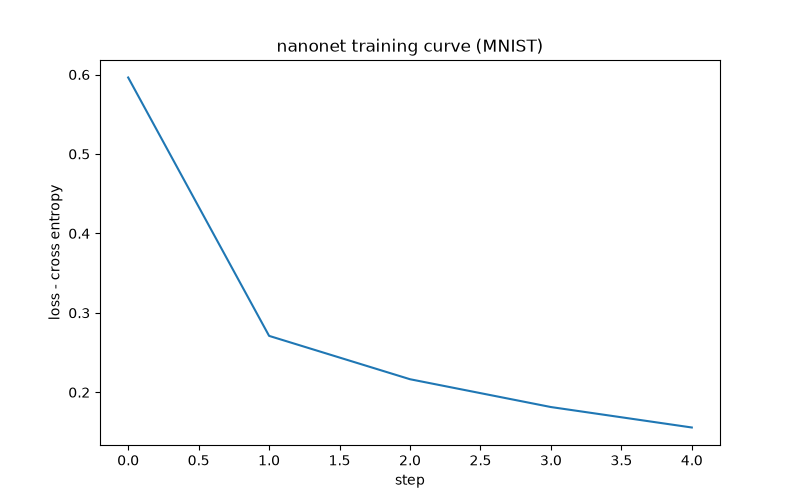
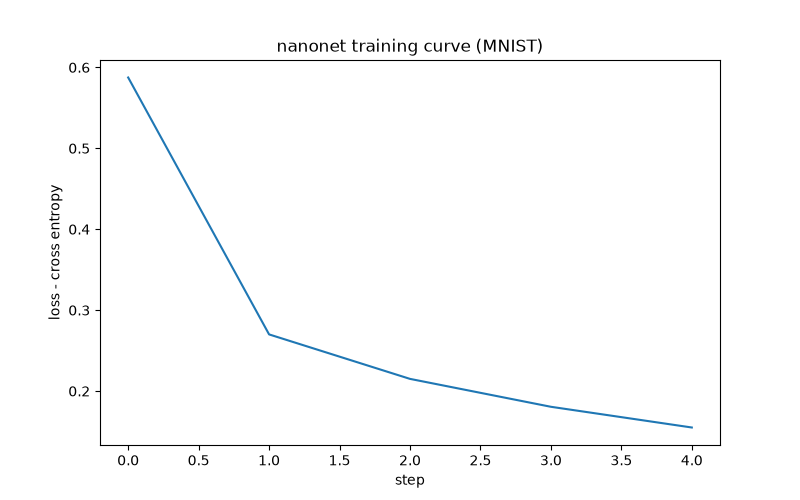
update README

diff --git a/examples/mnist.py b/examples/mnist.py
@@ -1,8 +1,11 @@
-from nanonet import ManualMLP as MLP
+import sys
+from nanonet import MLP
+from pathlib import Path
 import matplotlib.pyplot as plt
 from sklearn.datasets import fetch_openml
 from sklearn.model_selection import train_test_split
 
+sys.path.insert(0, str(Path(__file__).resolve().parents[1]))
 
 def main():
     X, y = fetch_openml(
@@ -26,7 +29,7 @@ def main():
               | true: {y_test[i]} 
               | {'ok' if predictions[i] == y_test[i] else 'x'}""")
     
-    acc = (model.predict(X_test[:2000]) == y_test[:2000]).mean()
+    acc = (model.predict(X_test) == y_test).mean()
     print(f"\nTest accuracy: {acc*100:.1f}%")
     plot_loss_curve(model.loss_history)
 

diff --git a/nanonet/model.py b/nanonet/model.py
@@ -56,7 +56,7 @@ class MLP:
             if verbose:
                 interval = max(1, epochs // 5)
                 if epoch % interval == 0 or epochs ==  epochs - 1:
-                    print(f"epoch {epoch+1}/{epochs}, loss: {loss:.3f}")
+                    print(f"epoch {epoch + 1}/{epochs}, loss: {avg:.3f}")
                     
         return self.loss_history
                     

diff --git a/nanonet/manual.py b/nanonet/manual.py
@@ -85,7 +85,7 @@ class MLP:
             if verbose:
                 interval = max(1, epochs // 5)
                 if epoch % interval == 0 or epochs ==  epochs - 1:
-                    print(f"epoch {epoch+1}/{epochs}, loss: {loss:.3f}")
+                    print(f"epoch {epoch + 1}/{epochs}, loss: {loss:.3f}")
                 
         
     def predict(self, X):

diff --git a/examples/bag_of_words.py b/examples/bag_of_words.py
@@ -1,6 +1,10 @@
+import sys
 import numpy as np
-from nanonet import MLP
 import matplotlib.pyplot as plt
+from nanonet import  MLP
+from pathlib import Path
+
+sys.path.insert(0, str(Path(__file__).resolve().parents[1]))
 
 # tiny dataset: same model, text in -> label out
 texts = [

diff --git a/README.md b/README.md
@@ -1,16 +1,166 @@
-## NanoNet
+# NanoNet
 
-A tiny neural net built entirely in Numpy.
-No PyTorch, no Tensorflow, only raw code and math for learning
+**A neural network framework built from scratch using NumPy.**
 
+NanoNet is an educational project exploring the mathematics and mechanics behind neural networks. Rather than relying on PyTorch or TensorFlow for its core implementation, NanoNet builds essential components from the ground up, including automatic differentiation, backpropagation, multilayer perceptrons, and the Adam optimizer.
 
-# What's Inside
-- MLP(784, 128, 10) from scratch 
-- Gets ~96% on MNIST
-- Built to learn how a neural net actually works at its core: autograd engine, forward, backprop, gradient descent, Adam, softmax, cross-entropy; all in Numpy 
+The goal is to understand how neural networks work internally, from tensor operations and gradient computation to parameter updates and model training.
 
-# Struture
-- `nanonet/autograd.py`: Tensor engine with autograd
-- `nanonet/model.py`: MLP + Adam, training uses cross-entropy loss
-- `nanonet/optim.py`: Adam optimizer
-- `nanonet/manual.py`: first version with manual backprop
+## Features
+
+* **Automatic differentiation:** A custom Tensor engine that builds a computational graph and propagates gradients through operations.
+* **Multilayer perceptron:** A fully connected neural network implemented using NumPy.
+* **Manual backpropagation:** An alternative MLP implementation with explicitly calculated gradients.
+* **Adam optimizer:** An implementation of adaptive gradient-based optimization.
+* **Core tensor operations:** Matrix multiplication, element-wise multiplication, broadcasting, summation, sigmoid, and softmax.
+* **Classification:** Cross-entropy loss and prediction for multiclass classification.
+* **Numerical gradient checking:** Finite-difference checks to validate analytical gradients.
+* **Automated testing:** Unit tests and continuous integration through GitHub Actions.
+
+## Architecture
+
+```text
+Input Data
+    |
+    v
+Tensor Operations
+    |
+    v
+Forward Pass
+    |
+    v
+Loss Calculation
+    |
+    v
+Automatic Differentiation
+    |
+    v
+Gradient Computation
+    |
+    v
+Adam Optimizer
+    |
+    v
+Parameter Updates
+```
+
+## Project Structure
+
+```text
+nanonet/
+├── nanonet/
+│   ├── autograd.py
+│   ├── model.py
+│   ├── optim.py
+│   └── manual.py
+├── examples/
+│   ├── mnist.py
+│   └── bag_of_words.py
+├── tests/
+├── .github/
+│   └── workflows/
+├── requirements.txt
+└── README.md
+```
+
+## Core Components
+
+| Component                  | Description                                                                           |
+| -------------------------- | ------------------------------------------------------------------------------------- |
+| `nanonet/autograd.py`      | Tensor operations, computational graph construction, and automatic differentiation    |
+| `nanonet/model.py`         | MLP, forward propagation, training, prediction, and cross-entropy loss                |
+| `nanonet/optim.py`         | Adam optimizer and optimization utilities                                             |
+| `nanonet/manual.py`        | MLP implementation using manually calculated backpropagation                          |
+| `examples/mnist.py`        | MNIST training and evaluation example                                                 |
+| `examples/bag_of_words.py` | Bag-of-words sentiment classification demonstration                                   |
+| `tests/`                   | Automated tests for tensor operations, gradients, optimization, and learning behavior |
+
+## Getting Started
+
+### Requirements
+
+* Python 3
+* NumPy
+* scikit-learn
+* Matplotlib
+* pandas
+
+Install the dependencies from the repository root:
+
+```bash
+pip install -r requirements.txt
+```
+
+### Run the MNIST Example
+
+Run the following command from the repository root:
+
+```bash
+python examples/mnist.py
+```
+
+The example trains a fully connected neural network to classify handwritten digits.
+
+**Network architecture**
+
+* Input: 784 features representing image pixels
+* Hidden layer: 128 units
+* Output: 10 classes representing digits 0–9
+
+The script normalizes the pixel values, trains the model, evaluates predictions, and plots the training loss.
+
+**Reported accuracy: 95.2%.**
+
+This is the result from the latest full evaluation run. Accuracy can vary with training configuration and evaluation conditions.
+
+### Run the Bag-of-Words Example
+
+```bash
+python examples/bag_of_words.py
+```
+
+This example demonstrates a simple bag-of-words approach to text classification. It is a small educational demonstration rather than a benchmark of sentiment-analysis performance.
+
+## Testing
+
+Run the test suite from the repository root:
+
+```bash
+pytest -v
+```
+
+The tests cover core functionality, including:
+
+* Tensor operations and gradient propagation
+* Matrix multiplication and broadcasting
+* Automatic differentiation
+* Numerical gradient checking
+* Optimizer updates
+* Neural-network learning behavior, including XOR
+
+GitHub Actions runs the automated test suite to help catch regressions.
+
+## Learning Objectives
+
+NanoNet explores the mechanisms that higher-level machine-learning frameworks abstract away:
+
+1. How computational graphs represent mathematical operations.
+2. How the chain rule enables reverse-mode automatic differentiation.
+3. How gradients propagate through a neural network.
+4. How optimizers use gradients to update parameters.
+5. How forward propagation, loss calculation, and backpropagation work together during training.
+6. How numerical gradient checking helps validate derivative implementations.
+
+## Limitations
+
+NanoNet is an educational implementation, not a replacement for production machine-learning frameworks.
+
+* Computation uses NumPy and runs on the CPU.
+* GPU acceleration is not supported.
+* The available operations and architectures are limited compared with mature frameworks.
+* The bag-of-words example uses a small demonstration dataset.
+* Reported performance depends on the training configuration and evaluation procedure.
+
+## Motivation
+
+NanoNet is an exercise in understanding machine learning from first principles: implementing the mathematics, validating gradients, and observing how the components combine to produce a learning system.
